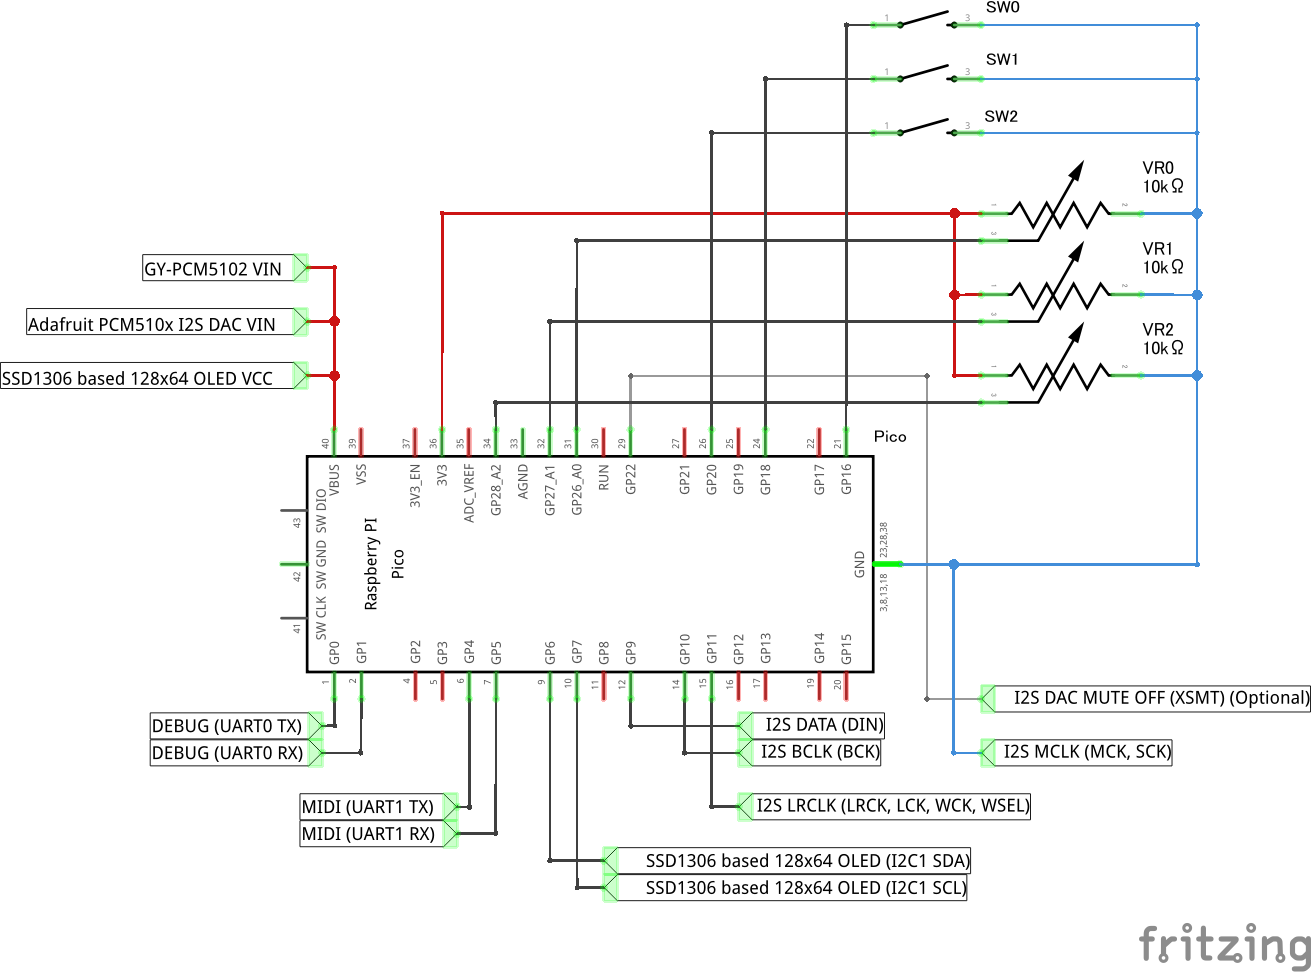
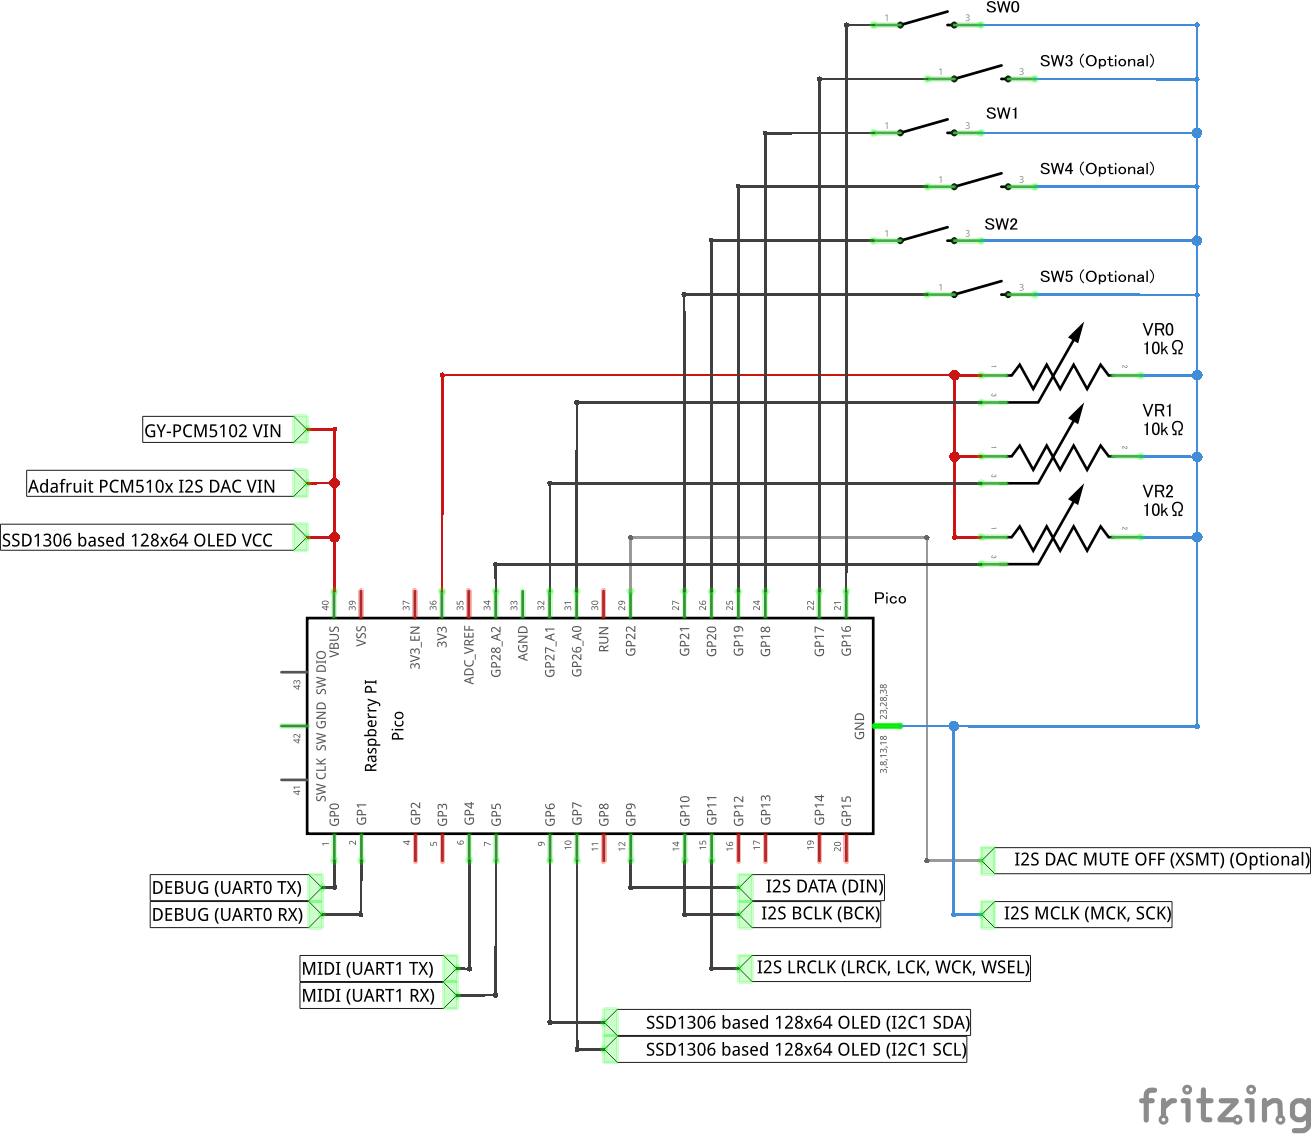
PRA32-U2 with Panel: Make SW0 non-omittable; Add SW4 and SW5 as Reserved

diff --git a/README-PRA32-U2-with-Panel.md b/README-PRA32-U2-with-Panel.md
@@ -17,13 +17,15 @@
     - Tested with Pimoroni Pico Audio Pack, M5Stack MIDI Unit (optional), Long Leg 2x20 Pin Socket * 2, Seeed Studio's Grove Shield for Pi Pico, Dual Button * 3, Rotary Angle Sensor * 3, and an OLED Display 0.96 inch
 - Uncomment out `//#define PRA32_U2_USE_CONTROL_PANEL` in "Digital-Synth-PRA32-U2.ino" and modify the constants
 - Inputs
-    - SW0: Prev Key (Push to the previous page, Long press to the previous group) (omittable)
+    - SW0: Prev Key (Push to the previous page, Long press to the previous group)
         - To not use this key, comment out `//#define PRA32_U2_KEY_INPUT_PREV_KEY_PIN          (16)` in "Digital-Synth-PRA32-U2.ino"
     - SW1: Next Key (Push to the next page, Long press to the next group)
     - SW2: Play Key (Normal Mode: press to play, Sequencer Mode: push to start/stop) (omittable)
         - To not use this key, comment out `//#define PRA32_U2_KEY_INPUT_PLAY_KEY_PIN          (20)` in "Digital-Synth-PRA32-U2.ino"
     - SW3: Shift Key (Press to prevent values from changing across 64) (optional)
         - To use this key, uncomment out `//#define PRA32_U2_KEY_INPUT_SHIFT_KEY_PIN         (17)` in "Digital-Synth-PRA32-U2.ino"
+    - SW4: Reserved (optional)
+    - SW5: Reserved (optional)
     - VR0 (ADC0): Parameter A
     - VR1 (ADC1): Parameter B
     - VR2 (ADC2): Parameter C for Play (omittable)
@@ -98,7 +100,6 @@
 
 - This image was created with Fritzing.
     - Actually, it is necessary to use Raspberry Pi Pico 2 (instead of Raspberry Pi Pico)
-    - GP17 -- SW3 -- GND (optional) is omitted
 - NOTE: Unlike Digital Synth PRA32-U v3.1.0, the switches are low active and RP2350 uses internal pull-up to avoid RP2350-E9 Erratum
 
 

diff --git a/PRA32-U2-Change-History.md b/PRA32-U2-Change-History.md
@@ -1,6 +1,7 @@
 ## Digital Synth PRA32-U2 Change History
 
 - v1.3.1 (2025-??-??):
+    - PRA32-U2 with Panel: Make SW0 non-omittable; Add SW4 and SW5 as Reserved
     - PRA32-U2 with Panel: Add an example of construction using a universal PCB
     - Tested with Arduino-Pico version 5.1.0
 - v1.3.0 (2025-09-23):
